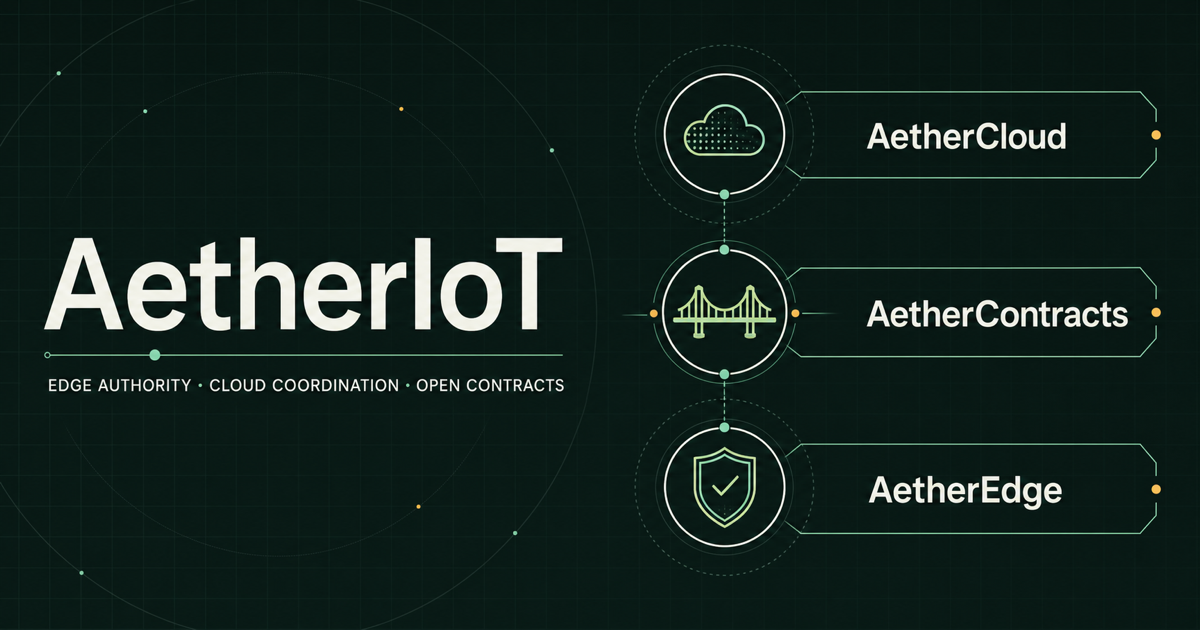
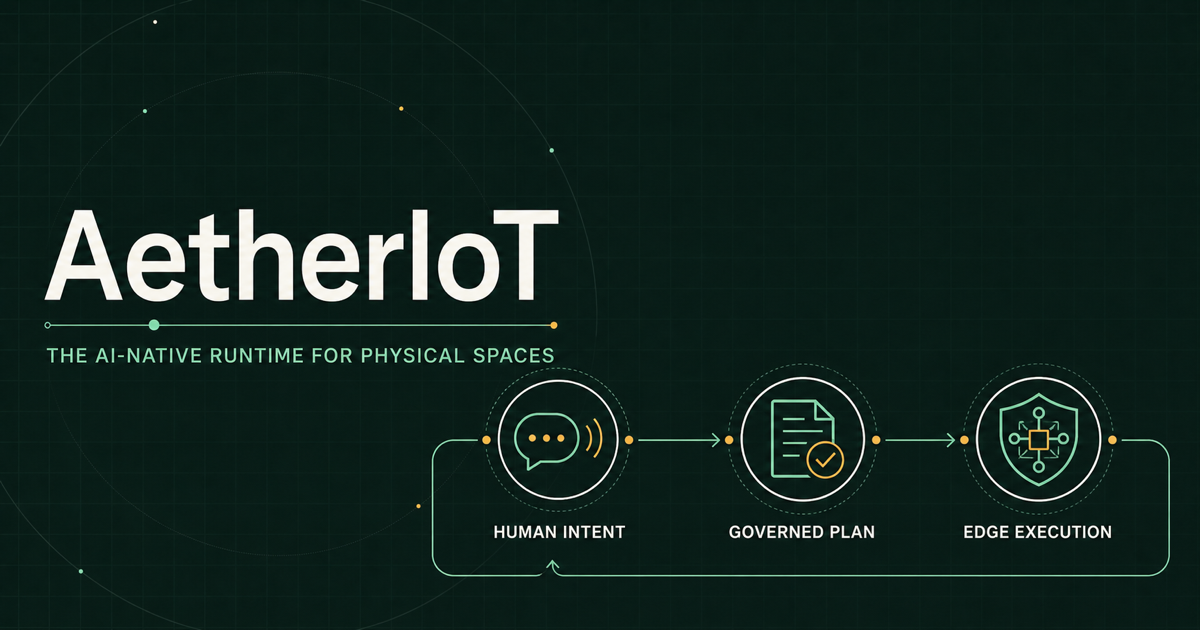
Reframe AetherIoT around AI-native physical spaces

diff --git a/app/page.tsx b/app/page.tsx
@@ -1,54 +1,59 @@
 const edgeUrl = "https://github.com/EvanL1/AetherEdge";
 const docsUrl = "https://docs.aetheriot.workers.dev/";
-const quickstartUrl =
-  "https://docs.aetheriot.workers.dev/aetheredge/";
+const aiNativeUrl =
+  "https://docs.aetheriot.workers.dev/overview/ai-native-platform/";
 const cloudUrl = "https://github.com/EvanL1/AetherCloud";
 const contractsUrl = "https://github.com/EvanL1/AetherContracts";
 const emsUrl = "https://github.com/EvanL1/AetherEMS";
 
 const capabilities = [
   {
-    index: "01",
-    title: "Keep the edge in control",
-    body: "Acquisition, deterministic rules, alarms, history, and safety keep running locally—even when the cloud or an AI client disappears.",
+    index: "01 · DIRECTION",
+    title: "Start with human intent",
+    body: "The product direction replaces configuration screens with conversation: describe the outcome, constraints, and duration instead of programming devices by hand.",
   },
   {
-    index: "02",
-    title: "Give AI a governed boundary",
-    body: "Agents, CLIs, and applications use the same typed command and query layer. Device control stays deny-by-default, confirmed, and audited.",
+    index: "02 · FOUNDATION",
+    title: "Compile intent into governed change",
+    body: "Typed capabilities, revisions, permissions, confirmation, and audit turn model output into inspectable artifacts—not direct device calls.",
   },
   {
-    index: "03",
-    title: "Connect cloud without surrendering authority",
-    body: "Use broker-neutral CloudLink foundations and public contracts while the edge remains authoritative for live state and physical execution.",
+    index: "03 · AVAILABLE",
+    title: "Execute without the model",
+    body: "AetherEdge runs commissioned acquisition, rules, alarms, history, and safety locally, even when the agent, cloud, or internet disappears.",
   },
 ] as const;
 
 const layers = [
   {
-    eyebrow: "OPEN-SOURCE EDGE",
+    eyebrow: "DETERMINISTIC EDGE",
     title: "AetherEdge",
-    copy: "A Linux edge kernel, six-service runtime, and Rust SDK for reliable field applications.",
+    copy: "The Linux runtime that owns live state and executes commissioned behavior without placing an LLM in the real-time loop.",
     href: edgeUrl,
     cta: "Explore the edge runtime",
   },
   {
-    eyebrow: "MULTI-CLOUD CONTROL",
+    eyebrow: "AGENT AND CONTROL PLANE",
     title: "AetherCloud",
-    copy: "An evolving cloud-side fusion and control plane that preserves provider-native capabilities.",
+    copy: "The evolving home for agent context, desired state, governed jobs, integrations, and provider-native cloud coordination.",
     href: cloudUrl,
     cta: "See the cloud foundation",
   },
   {
-    eyebrow: "PUBLIC INTEROPERABILITY",
+    eyebrow: "TYPED INTEROPERABILITY",
     title: "AetherContracts",
-    copy: "Language-neutral schemas, fixtures, profiles, and executable contract evidence.",
+    copy: "The language-neutral source of truth that keeps capabilities and messages type-safe, versioned, portable, and testable.",
     href: contractsUrl,
     cta: "Inspect the contracts",
   },
 ] as const;
 
 const documentation = [
+  {
+    title: "AI-native platform",
+    copy: "See how conversation becomes a governed plan and deterministic edge behavior.",
+    href: aiNativeUrl,
+  },
   {
     title: "Overview",
     copy: "Product boundaries, authority, deployments, and user journeys.",
@@ -123,34 +128,36 @@ export default function Home() {
         <div className="hero-grid" aria-hidden="true" />
         <div className="hero-copy">
           <p className="eyebrow">
-            <span className="status-dot" /> OPEN SOURCE · BETA
+            <span className="status-dot" /> OPEN SOURCE · AI-NATIVE · BETA
           </p>
           <h1>
             <span className="hero-line hero-line-solid">
-              The cloud can wait.
+              Describe the outcome.
             </span>
             <span className="hero-line hero-line-outline">
-              The edge cannot.
+              Agents build behavior.
             </span>
           </h1>
           <p className="hero-lede">
-            AetherIoT is the open-source IoT platform for reliable edge
-            operation, governed cloud coordination, and portable public
-            contracts—with or without cloud and AI.
+            AetherIoT is the open-source, AI-native runtime foundation for
+            agents to discover physical capabilities, turn human intent into
+            governed change, and commission deterministic edge behavior.
           </p>
           <div className="hero-actions">
-            <a className="button button-primary" href={quickstartUrl}>
-              Start building <span aria-hidden="true">→</span>
+            <a className="button button-primary" href={aiNativeUrl}>
+              Explore the architecture <span aria-hidden="true">→</span>
             </a>
           </div>
-          <p className="hero-note">MIT or Apache-2.0 · Linux edge · Rust 1.90+</p>
+          <p className="hero-note">
+            BETA FOUNDATION · END-USER AGENT EXPERIENCE IN DEVELOPMENT
+          </p>
         </div>
 
-        <div className="edge-visual" aria-label="Edge-first architecture">
-          <div className="visual-label">LIVE SYSTEM</div>
+        <div className="edge-visual" aria-label="AI-native control loop">
+          <div className="visual-label">AI-NATIVE CONTROL LOOP</div>
           <div className="visual-row visual-row-devices">
             <div className="node node-small">
-              <span className="node-light" /> FIELD DEVICES
+              <span className="node-light" /> HUMAN INTENT
             </div>
             <div className="flow-line" aria-hidden="true">
               <span />
@@ -158,23 +165,23 @@ export default function Home() {
           </div>
           <div className="edge-node">
             <div className="edge-node-head">
-              <span>AETHER EDGE</span>
-              <span className="healthy">● HEALTHY</span>
+              <span>AETHER AGENT PLANE</span>
+              <span className="healthy">● GOVERNED</span>
             </div>
             <div className="edge-node-core">
               <div className="pulse-rings" aria-hidden="true">
                 <span className="pulse-core">A</span>
               </div>
               <div>
-                <strong>Local authority</strong>
-                <small>SHM · SQLite · governed commands</small>
+                <strong>Intent becomes a plan</strong>
+                <small>AetherCloud · AetherContracts</small>
               </div>
             </div>
             <div className="service-grid">
-              <span>IO</span>
-              <span>RULES</span>
-              <span>ALARMS</span>
-              <span>HISTORY</span>
+              <span>DISCOVER</span>
+              <span>GENERATE</span>
+              <span>VERIFY</span>
+              <span>EXPLAIN</span>
             </div>
           </div>
           <div className="cloud-path">
@@ -182,8 +189,8 @@ export default function Home() {
               <span />
             </div>
             <div className="node cloud-node">
-              <span>OPTIONAL CLOUDLINK</span>
-              <small>Disconnected? Edge continues.</small>
+              <span>AETHER EDGE · DETERMINISTIC EXECUTION</span>
+              <small>Model offline? Commissioned behavior continues.</small>
             </div>
           </div>
         </div>
@@ -192,29 +199,30 @@ export default function Home() {
       <section className="proof-strip" aria-label="Product proof points">
         <div>
           <strong>3</strong>
-          <span>composable platform products</span>
+          <span>explicit product authorities</span>
         </div>
         <div>
           <strong>0</strong>
-          <span>required cloud services</span>
+          <span>direct model-to-device paths</span>
         </div>
         <div>
           <strong>1</strong>
-          <span>governed application boundary</span>
+          <span>typed application boundary</span>
         </div>
         <div>
           <strong>24/7</strong>
-          <span>local-first operation</span>
+          <span>deterministic edge execution</span>
         </div>
       </section>
 
       <section className="section why" id="why">
         <div className="section-heading">
           <p className="eyebrow">WHY AETHER</p>
-          <h2>Build for the world that actually exists.</h2>
+          <h2>Stop configuring devices. Start describing outcomes.</h2>
           <p>
-            Networks fail. Cloud providers change. AI clients come and go.
-            Physical operations still need deterministic, inspectable behavior.
+            Traditional automation asks people to translate life into entities,
+            triggers, conditions, and actions. Aether is building the governed
+            runtime foundation for agents to do that work safely.
           </p>
         </div>
         <div className="capability-grid">
@@ -232,26 +240,27 @@ export default function Home() {
         <div className="manifesto-rule" aria-hidden="true" />
         <p className="eyebrow">THE OPERATING PRINCIPLE</p>
         <blockquote>
-          “AI may propose. Cloud may coordinate.
-          <strong> The edge makes the final call.</strong>”
+          “Agents generate. Contracts verify.
+          <strong> The edge decides what runs.</strong>”
         </blockquote>
         <div className="manifesto-tags" aria-label="Operating principles">
-          <span>EDGE AUTHORITY</span>
-          <span>DENY BY DEFAULT</span>
-          <span>EXPLICIT AUDIT</span>
+          <span>HUMAN INTENT</span>
+          <span>TYPED PLANS</span>
+          <span>DETERMINISTIC EXECUTION</span>
         </div>
       </section>
 
       <section className="section platform" id="platform">
         <div className="section-heading split-heading">
           <div>
-            <p className="eyebrow">ONE COHERENT STACK</p>
-            <h2>Edge, cloud, and contracts—without blurred authority.</h2>
+            <p className="eyebrow">ONE AGENT-NATIVE SYSTEM</p>
+            <h2>Reason, verify, and execute—without blurred authority.</h2>
           </div>
           <p>
-            AetherIoT is the shared project identity. Each product has one job,
-            and public contracts connect them without turning cloud convenience
-            into a physical safety dependency.
+            The beta already provides deterministic edge execution, governed
+            application boundaries, public contracts, agent-readable docs, and
+            cloud foundations. Conversational generation, simulation, and
+            continuous adaptation remain explicit product direction.
           </p>
         </div>
         <div className="layer-list">
@@ -273,8 +282,8 @@ export default function Home() {
           <span>INDUSTRY SOLUTION</span>
           <strong>AetherEMS</strong>
           <p>
-            An energy-management solution built on the AetherIoT platform,
-            separate from its industry-neutral core products.
+            The first domain solution built on AetherIoT, supplying energy
+            semantics and safety constraints without changing platform authority.
           </p>
           <span aria-hidden="true">↗</span>
         </a>
@@ -284,11 +293,11 @@ export default function Home() {
         <div className="section-heading split-heading">
           <div>
             <p className="eyebrow">ONE DOCUMENTATION HOME</p>
-            <h2>Start with the platform. Go as deep as you need.</h2>
+            <h2>Separate the shipped foundation from the product direction.</h2>
           </div>
           <p>
-            One navigation model connects product concepts, complete tutorials,
-            compatibility evidence, and an honest delivery roadmap.
+            Follow the agent-native architecture, inspect current capabilities,
+            and verify exactly which pieces are implemented, experimental, or planned.
           </p>
         </div>
         <div className="docs-grid">
@@ -304,11 +313,11 @@ export default function Home() {
 
       <section className="section quickstart">
         <div className="quickstart-copy">
-          <p className="eyebrow">NO HARDWARE REQUIRED</p>
-          <h2>Run your first gateway composition.</h2>
+          <p className="eyebrow">FOUNDATION AVAILABLE TODAY</p>
+          <h2>Give an agent real capabilities—not folklore.</h2>
           <p>
-            Start with an empty, industry-neutral gateway. Add devices and a
-            domain Pack only when your application needs them.
+            Start with a safe-empty edge runtime. Let an agent inspect typed
+            capabilities and documentation before it proposes any change.
           </p>
           <a href={docsUrl}>
             Read the documentation <span aria-hidden="true">→</span>
@@ -340,15 +349,15 @@ export default function Home() {
 
       <section className="final-cta">
         <div className="final-orbit" aria-hidden="true" />
-        <p className="eyebrow">BUILD FROM THE EDGE OUT</p>
-        <h2>Your next IoT system should survive the internet.</h2>
+        <p className="eyebrow">THE INTERFACE BECOMES A CONVERSATION</p>
+        <h2>Describe how the physical space should behave.</h2>
         <p>
-          Explore the beta, run the examples, and help shape a safer edge-first
-          foundation.
+          Build the open foundation that lets agents generate change while
+          contracts, policy, and deterministic edge execution keep it real.
         </p>
         <div className="hero-actions">
-          <a className="button button-primary" href={quickstartUrl}>
-            Get started <span aria-hidden="true">→</span>
+          <a className="button button-primary" href={aiNativeUrl}>
+            Explore the architecture <span aria-hidden="true">→</span>
           </a>
           <a className="button button-secondary" href={docsUrl}>
             Read the docs <span aria-hidden="true">↗</span>
@@ -361,7 +370,7 @@ export default function Home() {
           <span className="brand-mark" aria-hidden="true">A</span>
           <span>AetherIoT</span>
         </a>
-        <p>One platform. Edge authority. Open contracts.</p>
+        <p>Describe intent. Verify change. Execute at the edge.</p>
         <div>
           <a href={edgeUrl}>AetherEdge</a>
           <a href={cloudUrl}>AetherCloud</a>

diff --git a/app/layout.tsx b/app/layout.tsx
@@ -14,28 +14,28 @@ const geistMono = Geist_Mono({
 
 export const metadata: Metadata = {
   metadataBase: new URL("https://www.aetheriot.workers.dev"),
-  title: "AetherIoT — Edge, cloud, and contracts",
+  title: "AetherIoT — The AI-native runtime for physical spaces",
   description:
-    "The open-source IoT platform for reliable edge operation, governed cloud coordination, and portable public contracts.",
+    "The open-source runtime foundation for agents to turn human intent into governed, verifiable physical behavior.",
   openGraph: {
-    title: "AetherIoT — Edge, cloud, and contracts",
+    title: "AetherIoT — The AI-native runtime for physical spaces",
     description:
-      "One platform for AetherEdge, AetherCloud, and AetherContracts.",
+      "Describe the outcome. Let agents generate governed behavior that the edge can execute without the model.",
     type: "website",
     images: [
       {
         url: "/og.png",
         width: 1200,
         height: 630,
-        alt: "AetherIoT — Edge, cloud, and contracts.",
+        alt: "AetherIoT — The AI-native runtime for physical spaces.",
       },
     ],
   },
   twitter: {
     card: "summary_large_image",
-    title: "AetherIoT — Edge, cloud, and contracts",
+    title: "AetherIoT — The AI-native runtime for physical spaces",
     description:
-      "One platform for AetherEdge, AetherCloud, and AetherContracts.",
+      "Describe the outcome. Verify the change. Execute it at the edge.",
     images: ["/og.png"],
   },
 };

diff --git a/README.md b/README.md
@@ -1,7 +1,10 @@
 # AetherIoT Website
 
-The public landing page for the AetherIoT open-source platform and its
-AetherEdge, AetherCloud, and AetherContracts products.
+The public landing page for AetherIoT: the open-source, AI-native runtime
+foundation for turning human intent into governed, verifiable behavior across
+physical spaces. It presents the distinct roles of AetherEdge, AetherCloud,
+and AetherContracts without presenting the planned end-user agent experience
+as already shipped.
 
 The site is a single route built with vinext and deployed to Cloudflare
 Workers. Product claims must remain aligned with the current beta boundaries in